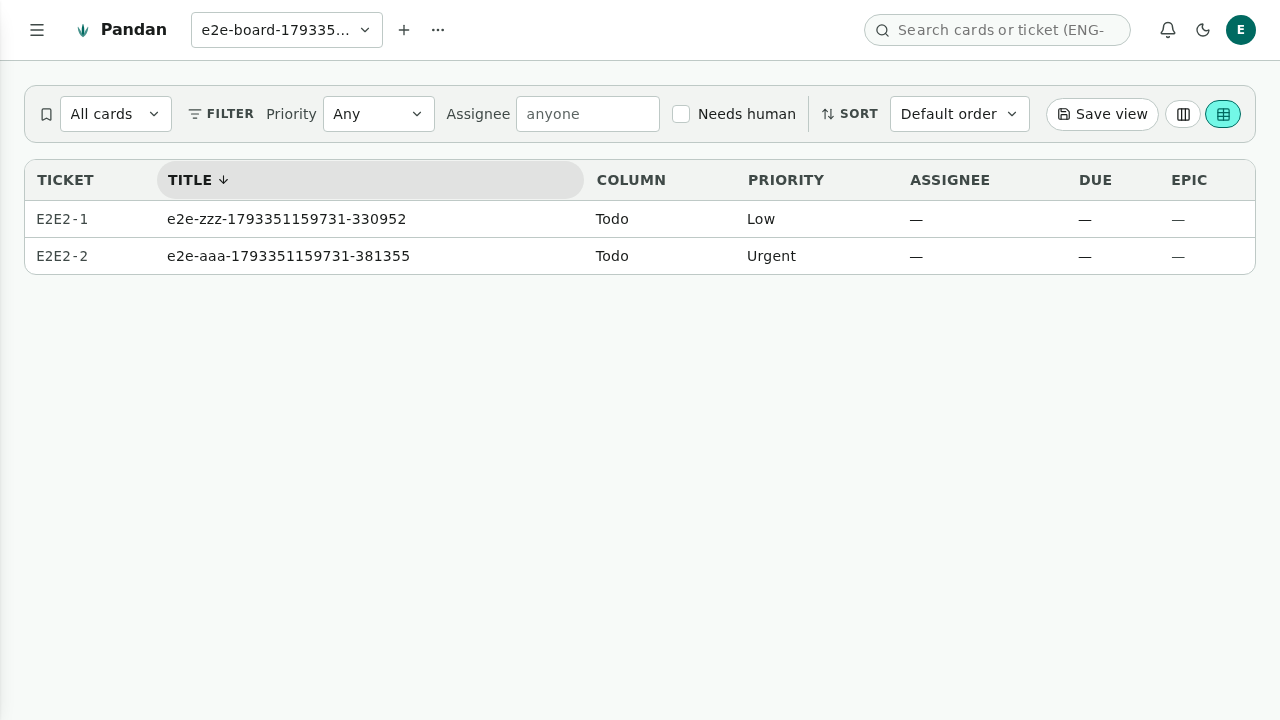
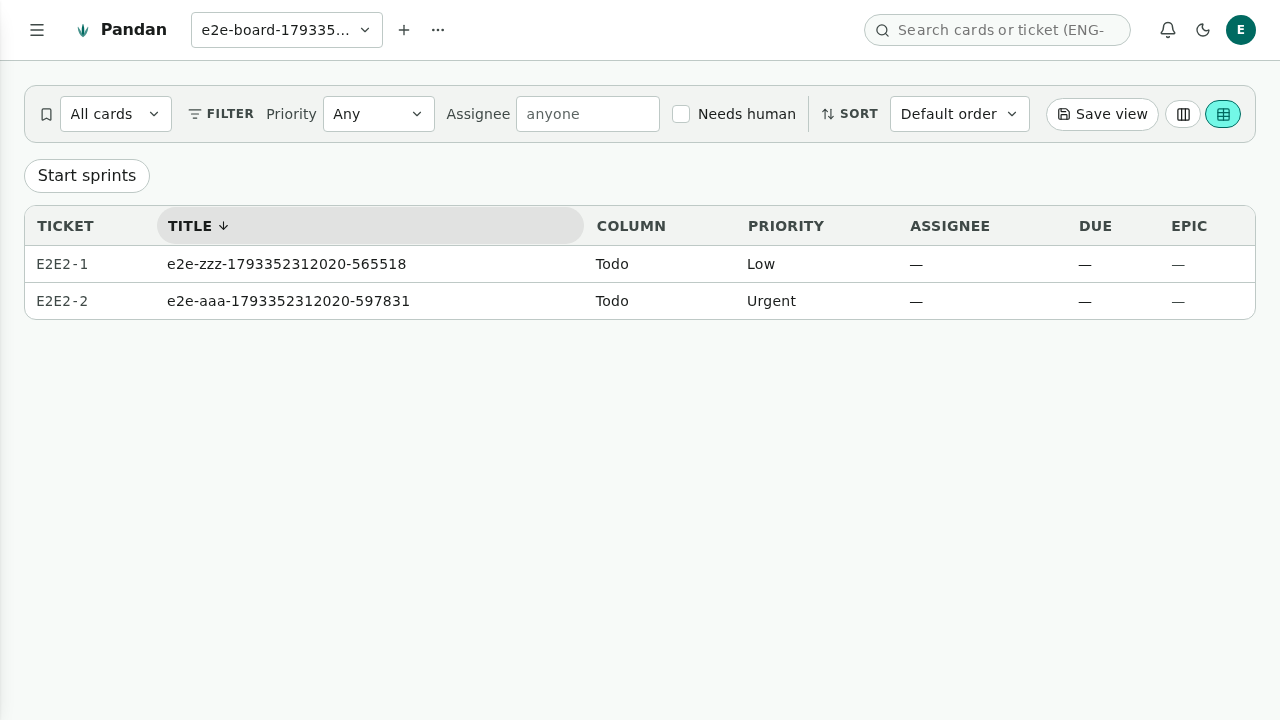
feat(board): start sprints from the board (PAN-238)
A board with no sprints offers a Start sprints button (editor+): start date, length, count, name template, via the existing cadence endpoint. Sprints stay optional. Frontend only, no migration.

diff --git a/frontend/src/lib/components/SprintStartModal.svelte b/frontend/src/lib/components/SprintStartModal.svelte
@@ -1,0 +1,104 @@
+<script lang="ts">
+  // Opt a board into sprints (PAN-238): picks a start date, sprint length and how
+  // many to create, then calls the cadence endpoint (M8 V58). Sprints are optional
+  // per board, so this is the only way a board gains them from the browser.
+  import { X } from "lucide-svelte";
+  import { ApiError } from "../api";
+  import { startSprints } from "../board.svelte";
+  import Modal from "./Modal.svelte";
+  import { Field, TextInput } from "./ui";
+
+  let { onclose }: { onclose: () => void } = $props();
+
+  function today(): string {
+    const d = new Date();
+    const pad = (n: number) => String(n).padStart(2, "0");
+    return `${d.getFullYear()}-${pad(d.getMonth() + 1)}-${pad(d.getDate())}`;
+  }
+
+  let start = $state(today());
+  let lengthDays = $state("14");
+  let count = $state("6");
+  let template = $state("Sprint {n}");
+  let submitting = $state(false);
+  let error = $state<string | null>(null);
+
+  const length = $derived(Number(lengthDays));
+  const howMany = $derived(Number(count));
+  const valid = $derived(
+    /^\d{4}-\d{2}-\d{2}$/.test(start) &&
+      Number.isInteger(length) &&
+      length > 0 &&
+      Number.isInteger(howMany) &&
+      howMany > 0 &&
+      howMany <= 52 &&
+      template.trim().length > 0,
+  );
+  const endDay = $derived.by(() => {
+    if (!valid) return "";
+    const d = new Date(`${start}T00:00:00Z`);
+    d.setUTCDate(d.getUTCDate() + length * howMany);
+    return d.toISOString().slice(0, 10);
+  });
+
+  async function submit(e: SubmitEvent) {
+    e.preventDefault();
+    if (!valid || submitting) return;
+    submitting = true;
+    error = null;
+    try {
+      await startSprints({
+        start,
+        length_days: length,
+        count: howMany,
+        name_template: template.trim(),
+      });
+      onclose();
+    } catch (err) {
+      error = err instanceof ApiError ? err.message : "Failed to start sprints";
+    } finally {
+      submitting = false;
+    }
+  }
+</script>
+
+<Modal label="Start sprints" {onclose}>
+  <form class="card-form card-modal" onsubmit={submit}>
+    <header class="modal-head">
+      <span class="ticket">Start sprints</span>
+      <button type="button" class="icon-btn modal-close" aria-label="Close" onclick={onclose}>
+        <X size={16} />
+      </button>
+    </header>
+    <div class="modal-scroll">
+      <div class="modal-main">
+        <p class="hint">
+          Creates back-to-back sprints. The board then shows the current sprint, and
+          you can still open past sprints or all cards from the Sprint selector.
+        </p>
+        <Field label="First sprint starts">
+          <TextInput type="date" aria-label="First sprint starts" bind:value={start} />
+        </Field>
+        <Field label="Length (days)">
+          <TextInput type="number" aria-label="Sprint length in days" bind:value={lengthDays} />
+        </Field>
+        <Field label="How many sprints" hint="Up to 52.">
+          <TextInput type="number" aria-label="How many sprints" bind:value={count} />
+        </Field>
+        <Field label="Name" hint="{'{n}'} becomes 1, 2, 3 …">
+          <TextInput aria-label="Sprint name template" bind:value={template} />
+        </Field>
+        {#if valid}
+          <p class="hint">{howMany} × {length} days, {start} → {endDay}</p>
+        {/if}
+        {#if error}<p class="error" role="alert">{error}</p>{/if}
+      </div>
+    </div>
+    <footer class="modal-foot">
+      <button type="button" onclick={onclose}>Cancel</button>
+      <button type="submit" class="primary" disabled={!valid || submitting}>
+        {submitting ? "Creating…" : "Start sprints"}
+      </button>
+    </footer>
+  </form>
+</Modal>

diff --git a/frontend/e2e/start-sprints.spec.ts b/frontend/e2e/start-sprints.spec.ts
@@ -1,0 +1,32 @@
+import { expect, test } from "@playwright/test";
+import { cleanupE2eBoards, createCard, openFreshBoard, uniqueTitle } from "./helpers";
+
+// PAN-238: sprints are optional per board and opted into from the browser. A board
+// with none offers "Start sprints"; doing it creates the run and the Sprint
+// selector replaces the button, with open work still on the board.
+
+test.afterAll(() => cleanupE2eBoards());
+
+test("start sprints from the board, then the sprint selector appears", async ({ page }) => {
+  await openFreshBoard(page);
+  const title = uniqueTitle("keeps-showing");
+  await createCard(page, "Todo", title);
+
+  await expect(page.getByLabel("Sprint", { exact: true })).toHaveCount(0);
+  await page.getByRole("button", { name: "Start sprints" }).click();
+
+  const dialog = page.getByRole("dialog", { name: "Start sprints" });
+  await expect(dialog).toBeVisible();
+  await dialog.getByLabel("How many sprints").fill("3");
+  await dialog.getByRole("button", { name: "Start sprints" }).click();
+
+  await expect(dialog).toHaveCount(0);
+  await expect(page.getByLabel("Sprint", { exact: true })).toBeVisible();
+  await expect(page.getByRole("button", { name: "Start sprints" })).toHaveCount(0);
+  // Unscheduled open work stays on a sprint-scoped board.
+  await expect(page.getByText(title, { exact: true })).toBeVisible();
+
+  const boardId = Number(await page.evaluate(() => localStorage.getItem("kanban.activeBoardId")));
+  const cycles = await (await page.request.get(`/api/v1/boards/${boardId}/cycles`)).json();
+  expect(cycles.map((c: { name: string }) => c.name)).toEqual(["Sprint 1", "Sprint 2", "Sprint 3"]);
+});

diff --git a/frontend/src/lib/components/SprintScope.svelte b/frontend/src/lib/components/SprintScope.svelte
@@ -3,12 +3,18 @@
   // nothing for a board that has no sprints and nothing hidden, so a board that
   // never opted into sprints looks exactly as it did before.
   import {
+    activeBoard,
     hiddenDoneCount,
     setSprintSelection,
     sprintStore,
   } from "../board.svelte";
   import { activeCycle, type SprintSelection } from "../sprintScope";
   import { Select } from "./ui";
+  import SprintStartModal from "./SprintStartModal.svelte";
+
+  let starting = $state(false);
+  // Creating cycles needs editor+; a viewer would only meet a 403.
+  const canStart = $derived(activeBoard()?.role !== "viewer");
 
   const hasSprints = $derived(sprintStore.cycles.length > 0);
   const hidden = $derived(hiddenDoneCount());
@@ -32,7 +38,7 @@
   }
 </script>
 
-{#if hasSprints || hidden > 0 || sprintStore.showAllDone}
+{#if hasSprints || hidden > 0 || sprintStore.showAllDone || canStart}
   <div class="sprint-scope">
     {#if hasSprints}
       <label class="sprint-select">
@@ -46,6 +52,11 @@
         />
       </label>
     {/if}
+    {#if !hasSprints && canStart}
+      <button type="button" class="chip-btn start-sprints" onclick={() => (starting = true)}>
+        Start sprints
+      </button>
+    {/if}
     {#if hidden > 0 || sprintStore.showAllDone}
       <button
         type="button"
@@ -58,6 +69,10 @@
       </button>
     {/if}
   </div>
+{/if}
+
+{#if starting}
+  <SprintStartModal onclose={() => (starting = false)} />
 {/if}
 
 <style>

diff --git a/frontend/src/lib/api.ts b/frontend/src/lib/api.ts
@@ -1232,6 +1232,28 @@ export interface CycleMetrics {
   burndown: BurndownPoint[];
 }
 
+export interface CycleGenerateRequest {
+  start: string; // calendar day, YYYY-MM-DD
+  length_days: number;
+  count: number;
+  // `{n}` interpolates the 1-indexed position in this run, e.g. "Sprint {n}".
+  name_template: string;
+}
+
+// Back-to-back [starts_on, ends_on) cycles in one all-or-nothing call (M8 V58).
+export async function generateCycles(
+  boardId: number,
+  payload: CycleGenerateRequest,
+): Promise<Cycle[]> {
+  const res = await fetch(`${API}/boards/${boardId}/cycles/generate`, {
+    method: "POST",
+    headers: { "Content-Type": "application/json" },
+    body: JSON.stringify(payload),
+  });
+  if (!res.ok) throw new ApiError(res.status, await parseError(res));
+  return res.json();
+}
+
 export async function listCycles(boardId: number): Promise<Cycle[]> {
   const res = await fetch(`${API}/boards/${boardId}/cycles`);
   if (!res.ok) throw new ApiError(res.status, await parseError(res));

diff --git a/frontend/src/lib/board.svelte.ts b/frontend/src/lib/board.svelte.ts
@@ -18,6 +18,7 @@ import {
   deleteView,
   listBoards,
   listCards,
+  generateCycles,
   listCycles,
   listEpics,
   listLabels,
@@ -35,6 +36,7 @@ import {
   type CardMove,
   type CardQuery,
   type Cycle,
+  type CycleGenerateRequest,
   type CardUpdate,
   type Column,
   type Epic,
@@ -202,6 +204,15 @@ export async function refetchCycles(): Promise<void> {
   ) {
     sprintStore.selection = "active";
   }
+}
+
+// Opt the active board into sprints: a run of back-to-back cycles, then reload so
+// the board scopes to the current one. Server-authoritative like every mutation.
+export async function startSprints(payload: CycleGenerateRequest): Promise<void> {
+  const id = boardStore.activeBoardId;
+  if (id == null) return;
+  await generateCycles(id, payload);
+  await refetchCycles();
 }
 
 // The cards the board actually renders: everything the server returned, narrowed

diff --git a/docs/guide/tutorial/organising.md b/docs/guide/tutorial/organising.md
@@ -132,7 +132,10 @@ pandan cycle metrics 3
 
 ### What the board shows once a board has sprints
 
-A board with no cycles looks exactly as it always did. Once it has any, the board shows its
+Sprints are optional. A board with none offers a **Start sprints** button above the board: pick the
+first start date, how long a sprint lasts (14 days by default) and how many to create, and the board
+creates them back to back. From the CLI, `pandan cycle generate` does the same. Until a board has
+sprints it behaves as it always did; once it has any, the board shows its
 **current sprint**: the cards in the sprint whose dates contain today, plus work that is not in any sprint
 yet and is still open. Cards in a closed or future sprint leave the board but stay one click away. Use the
 **Sprint** selector above the board to open a past sprint, or choose **All cards** for the old behaviour.
